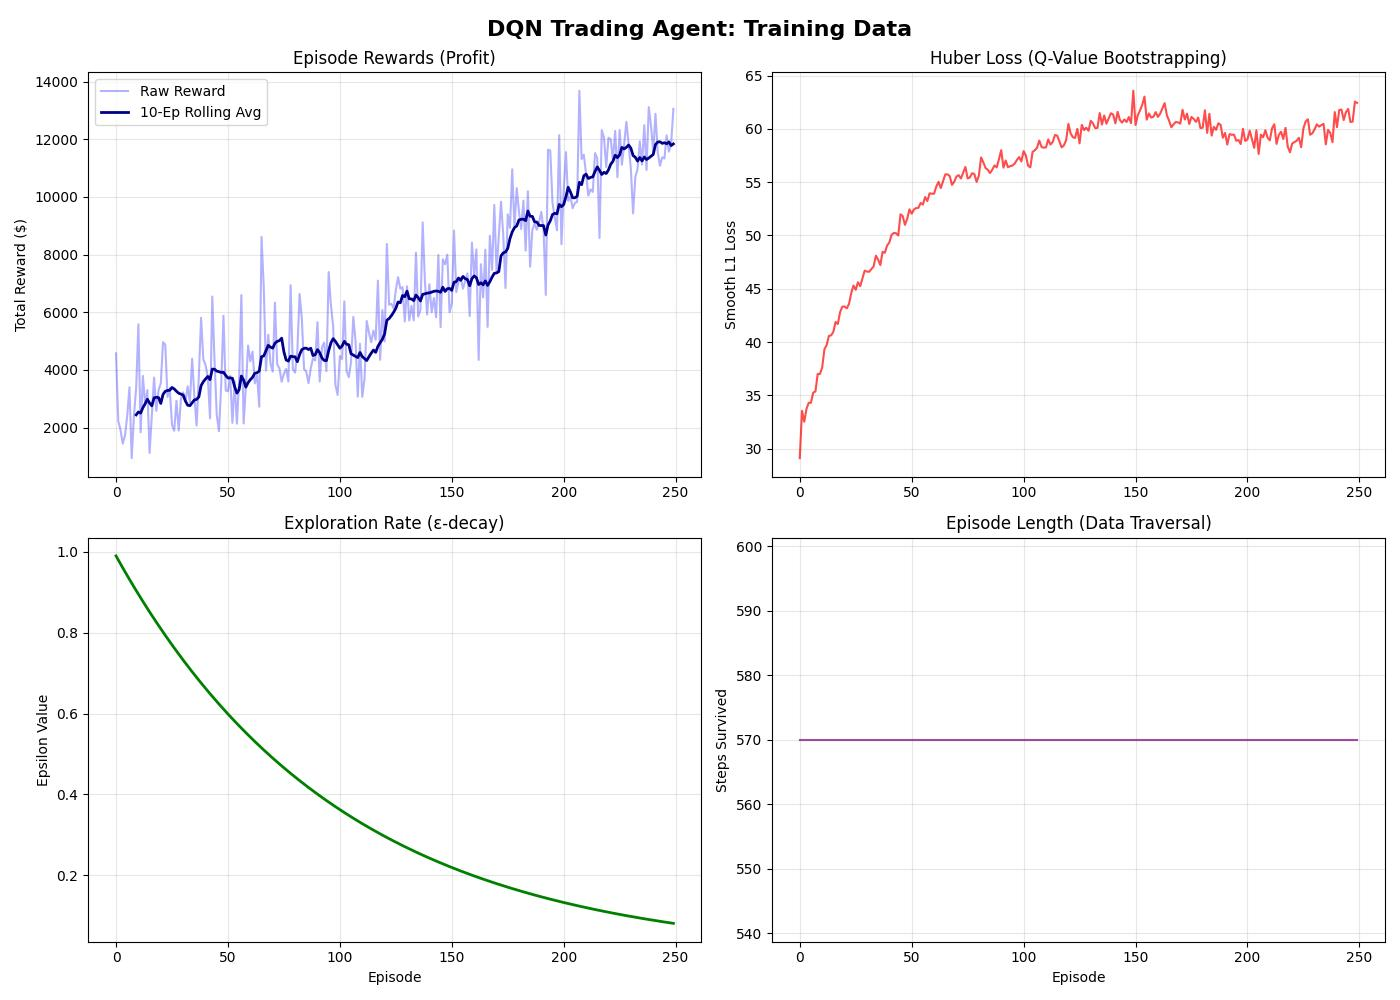
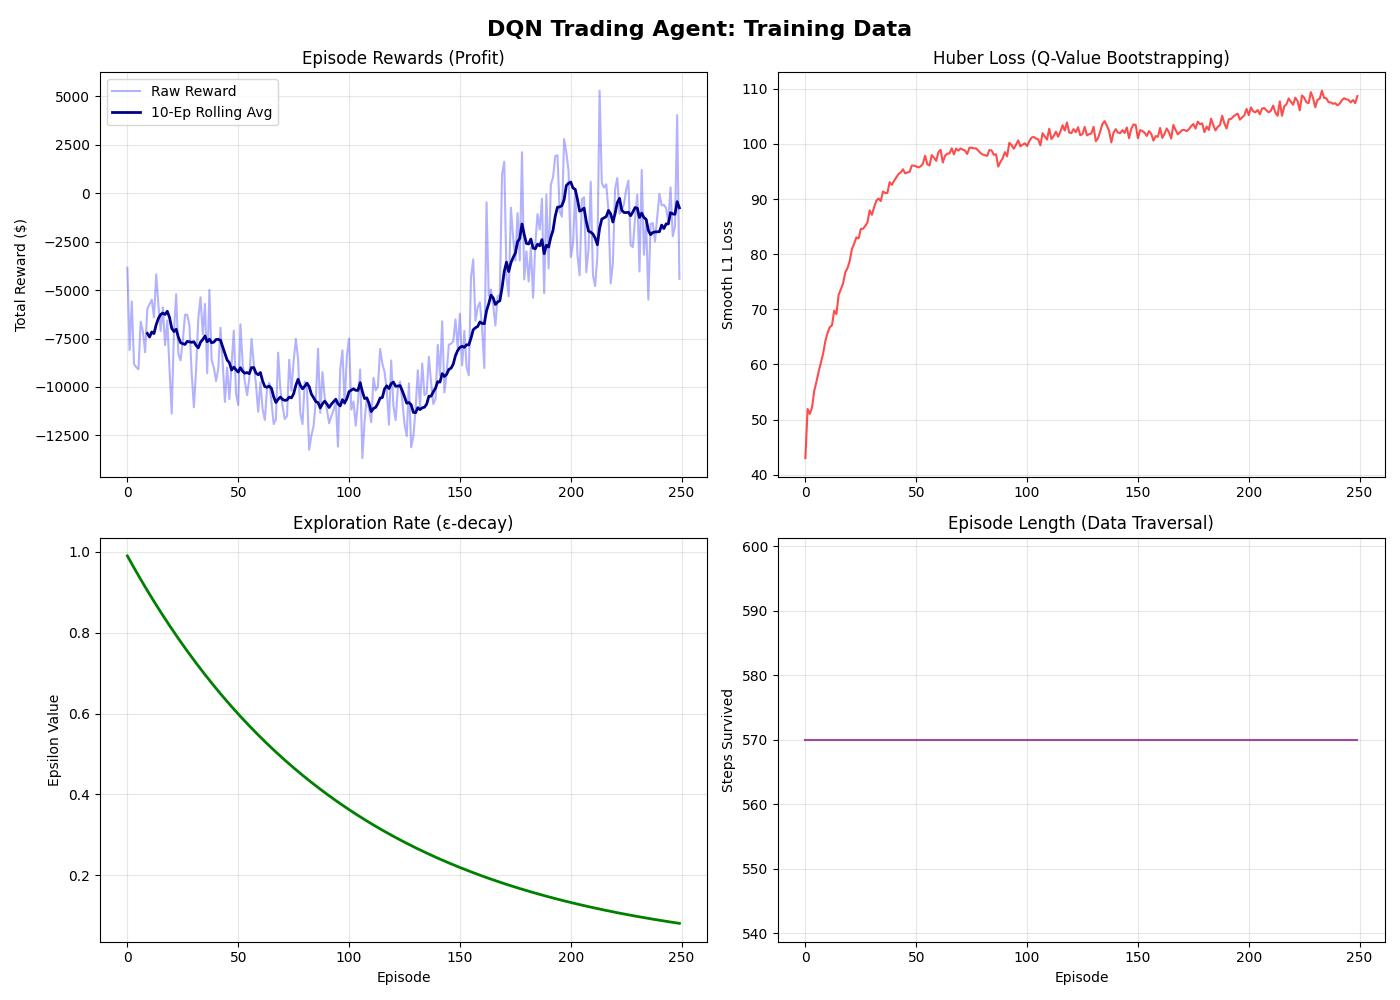
Testing implemented.

diff --git a/test.py b/test.py
@@ -1,0 +1,77 @@
+import torch
+import torch.nn as nn
+import torch.optim as optim
+import numpy as np
+import random
+from Exp_replay import ReplayBuffer
+from target_nets import QNetwork
+from env import StockTradingEnv
+from stock_data import test
+
+device = torch.device("cuda" if torch.cuda.is_available() else "cpu")
+
+# Initializing the env
+env = StockTradingEnv(test, window_size=15, initial_balance=10000.0)
+action_counts = {0: 0, 1: 0, 2: 0} # Track Hold, Buy, Sell
+num_episodes = 250
+batch_size = 64
+state_size = env.observation_space.shape[0]
+action_size = int(env.action_space.n)
+
+#Loading the trained model
+online_net=QNetwork(state_size,action_size).to(device)
+
+try:
+    online_net.load_state_dict(torch.load('trained_agent.pth', map_location=device))
+    print("Successfully loaded trained weights.")
+except FileNotFoundError:
+    raise FileNotFoundError("Could not find 'trained_agent.pth'.")
+
+online_net.eval()
+
+#the window size is 15 and the initial amount is 10000
+initial_price = test['Close'].iloc[15]
+final_price = test['Close'].iloc[-1]
+shares_bought = int(10000.0 // initial_price)
+leftover_cash = 10000.0 - (shares_bought * initial_price)
+baseline_portfolio_value = leftover_cash + (shares_bought * final_price)
+
+random_final_values = []
+for _ in range(5):
+    env.reset()
+    done = False
+    while not done:
+        action = env.action_space.sample()
+        _, _, terminated, truncated, info = env.step(action)
+        done = terminated or truncated
+    random_final_values.append(info['portfolio_value'])
+
+average_random_value = sum(random_final_values) / len(random_final_values)
+
+state, info = env.reset()
+done = False
+
+while not done:
+    with torch.no_grad():
+        state_tensor = torch.FloatTensor(state).unsqueeze(0).to(device)
+        q_values = online_net(state_tensor)
+        action = q_values.argmax().item() 
+        action_counts[action] += 1
+
+    next_state, reward, terminated, truncated, info = env.step(action)
+    done = terminated or truncated
+    state = next_state
+
+agent_final_value = info['portfolio_value']
+
+print(f"Action Distribution: {action_counts}")
+
+# print("--- Final Evaluation Results ---\n\n")
+# print("--------------------------------------------------")
+# print(f"Starting Balance:       $10000.00")
+# print(f"Buy & Hold Baseline:        ${baseline_portfolio_value:.2f}")
+# print(f"Random Agent Final Value:       ${average_random_value:.2f}")
+# print(f"DQN Agent Final Value:      ${agent_final_value:.2f}")
+# print("--------------------------------------------------")
+
+env.close()

diff --git a/env.py b/env.py
@@ -108,7 +108,11 @@ class StockTradingEnv(gym.Env):
         
         # Reward=new-old
         reward = new_portfolio_value - old_portfolio_value
-
+        if reward<0:
+            reward=reward * 2.0 
+        else:
+            #No change
+            pass
         # next state
         if not done:
             next_state = self._get_observation()

diff --git a/target_nets.py b/target_nets.py
@@ -10,8 +10,10 @@ class QNetwork(nn.Module):
         self.network = nn.Sequential(
             nn.Linear(state_dim,256),
             nn.ReLU(),
+            nn.Dropout(p=0.2),
             nn.Linear(256,128),
             nn.ReLU(),
+            nn.Dropout(p=0.2),
             nn.Linear(128, action_dim)
         )
         

diff --git a/train.py b/train.py
@@ -114,8 +114,6 @@ np.savez('training_metrics.npz',
          epsilons=epsilon_list)
 
 torch.save(online_net.state_dict(), 'trained_agent.pth')
-print("Model weights successfully saved to 'trained_agent.pth'")
-
 print(f"\nTraining Complete. Maximum Episode Reward: ${max_reward:.2f}")
 
 env.close()